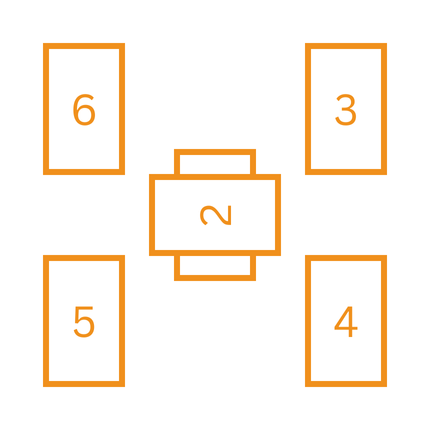
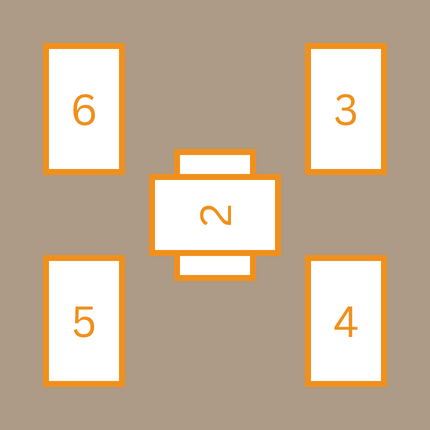
Add header, pagination, dark mode

diff --git a/index.js b/index.js
@@ -1,14 +1,15 @@
 //TO DO: add hover / click to reveal; fix spacing and design
 const factions = {
-  "idona":{"id":"idona","name":"Idona","short":"A one-card spread for a decision or a problem.","long":"This spread is used for providing simple answers to questions, such as yes or no, the appropriate action or person, the correct response, etc. The querent may find that sometimes the answer does not lie in the meaning of the card but in a person or action that it represents, or even a person who banners an image from the card or one similar. If the querent is unable to ascertain the correct answer from the card, it is considered to be a fault in the querent's understanding and not in the card.","spread":["1. Your answer."]},"asmus":{"id":"asmus","name":"Asmus","short":"A three-card reading on a single issue, revealing two possible paths.","long":"The classic Asmus spread is three cards laid out in the triangular shape of a moth.","spread":["1. What lies in the darkness?","2. How can it be freed?","3. How can it be bound?"]},"stel":{"id":"stel","name":"Stel","short":"A four-card spread that reveals what is coming.","long":"The Stel are nothing if not pragmatic about their divination.","spread":["1. Your current situation.","2. A past influence.","3. A future influence.","4. The doom that arrives."]},"nizari":{"id":"nizari","name":"Nizari","short":"A four-card spread which delves into the hidden layers of the question or situation.","long":"Sources disagree whether this spread originally had a fifth card that was meant to represent the truth of the situation. Wethran Ryo argues that a fifth card representing the truth is meant to be concealed by card 4, while Nizari Khedhan intimates that the inner position of the fourth card is meant to illustrate that there is no truth and suggests that one could extend the spread as far as one wishes, even to the end of the deck, and perhaps never find it. In latter days, Attra Feliora has observed that the structure built by piling lies on one another evinces a truth all its own.","spread":["1. The lie on the surface.","2. The lie it is covering.","3. The lie lurking beneath.","4. The lie at the heart of the matter."]},"veras":{"id":"veras","name":"Veras","short":"A six-card spread that explores different paths branching from the question.","long":"The literature is silent on whether each of the six paths represented by a card in the formal version of this spread is meant to correspond directly to a faction. Indirect evidence of that supposition is that a seventh card has occasionally, but rarely, been used since the Ralis were destroyed, and then only under dire circumstances and only by senior scryers, to minimize the risk of heresy. (And by Veras cadets around the campfire during orientation week, on dares.)","spread":["1. The just path.","2. The expedient path.","3. The traditional path.","4. The direct path.","5. The subtle path.","6. The hidden path.","[7. The heretical path.]"]},"attra":{"id":"attra","name":"Attra","short":"An eight-card spread offering counsel on an endeavor.","long":"On the surface, an Attra spread advises a querent on the creation of artistic works such as paintings, poetry, dance, perfume, architecture and so forth. However, each position contains multiple meanings that could apply to a different undertaking such as seduction, competition, business dealing, diplomatic negotiation, a con or assassination, to name a few examples. (Given the Attra penchant for aesthetics, they may also consider those to be artistic endeavors.) An Attra reader may also construct meanings of their own for one or more positions in a layout at any given time, citing inspiration or aesthetics.<br><br>Traditionally an Attra reading is an artwork in and of itself, and as such should stand on its own with no explanation from the artist. If a reader is interpreting for another, they do not request input from the querent, instead trusting that the applicability of the reading to the querent's concern will be self-evident.*<br><br>A noted feature of the spread is that it is not always apparent whether a particular card is referring to the artwork or to the artist. The Attra consider it a mark of virtuosity on the part of the reader to create an interpretation that incorporates both.<br><br>*The infamous general Nizari Cadao, a noted cynic, once observed that this also provided plausible deniability.","spread":["1. What is created. The work. Subject, topic, mark.","2. What is designed. Intention or objective. Plan.","3. What it draws upon. Inspiration, influences, ideation. Conversation with what has gone before. Roots. Buttresses. Motives, purpose.","4. What obstructs it. Critique, opposition. Weaknesses. Unseen influences and plots. What cannot be known.","5. What it requires. Needs. A driving impulse. Funding opportunities. Knowledge, education.","6. What it demands. What is surrendered, or what is taken.","7. What it results in. Goal. What is received.","8. Where it is. The work's place in the canon. The greater tapestry, or the individual threads. Creation. Revelation, revolution, resolution. Termination. Message for those yet to come."]},"ralis":{"id":"ralis","name":"Ralis","short":"A six-card spread examining one's self. Declared heretical. Use with extreme caution.","long":"Declared heretical. Use with extreme caution.<br><br>Sometimes called the mirrorweight spread after the exotic technology favored by the Ralis, this spread was declared heretical when the faction was destroyed. Even during the heptarchate, it was thought dangerous: while few are willing to scrutinize their deepest thoughts and motivations, the threat of potentially exposing such to one's enemies was considered too great a risk.<br><br>The center cards represent the face of the querent. The upper half concerns the conscious and the lower half reveals the subconscious while the corners of the spread mirror each other. Connecting lines mirror paper folds, and it is said that if an Idona requested a reading using this spread, they would fold the paper on which the cards had been laid into a shape inspired by the interpretation, and then burn it, although this assertion is unsubstantiated.","spread":["1. The wound. Your damage. What others seek to take advantage of.","2. The mask. The bandage that hides the wound from the world. What others see.","3. The mountain. Your strength. What prevents you falling.","4. The shape. Your conscious motivations; your known thoughts and emotions. What you want to achieve.","5. The shadow. Your unconscious motivations, people and events from your past that shaped you in ways you know not. What you don't understand that drives you or holds you back.","6. The avalanche. Your deepest flaws and weaknesses. Your fears. What causes you to crumble."]}
+  "idona":{"id":"idona","name":"Idona","short":"A one-card spread for a decision or a problem.","long":"This spread is used for providing simple answers to questions, such as yes or no, the appropriate action or person, the correct response, etc. The querent may find that sometimes the answer does not lie in the meaning of the card but in a person or action that it represents, or even a person who banners an image from the card or one similar. If the querent is unable to ascertain the correct answer from the card, it is considered to be a fault in the querent's understanding and not in the card.","spread":["<b>1. Your answer.</b>"],"alt":"A single card in the center of the spread."},"asmus":{"id":"asmus","name":"Asmus","short":"A three-card reading on a single issue, revealing two possible paths.","long":"The classic Asmus spread is three cards laid out in the triangular shape of a moth.","spread":["<b>1. What lies in the darkness?</b>","<b>2. How can it be freed?</b>","<b>3. How can it be bound?</b>"],"alt":"Three cards in a triangle, starting at the top and moving clockwise."},"stel":{"id":"stel","name":"Stel","short":"A four-card spread that reveals what is coming.","long":"The Stel are nothing if not pragmatic about their divination.","spread":["<b>1. Your current situation.</b>","<b>2. A past influence.</b>","<b>3. A future influence.</b>","<b>4. The doom that arrives.</b>"],"alt":"Four cards in a line from right to left."},"nizari":{"id":"nizari","name":"Nizari","short":"A four-card spread which delves into the hidden layers of the question or situation.","long":"Sources disagree whether this spread originally had a fifth card that was meant to represent the truth of the situation. Wethran Ryo argues that a fifth card representing the truth is meant to be concealed by card 4, while Nizari Khedhan intimates that the inner position of the fourth card is meant to illustrate that there is no truth and suggests that one could extend the spread as far as one wishes, even to the end of the deck, and perhaps never find it. In latter days, Attra Feliora has observed that the structure built by piling lies on one another evinces a truth all its own.","spread":["<b>1. The lie on the surface.</b>","<b>2. The lie it is covering.</b>","<b>3. The lie lurking beneath.</b>","<b>4. The lie at the heart of the matter.</b>"],"alt":"Four cards in a staggered stack, each placed beneath the previous."},"veras":{"id":"veras","name":"Veras","short":"A six-card spread that explores different paths branching from the question.","long":"The literature is silent on whether each of the six paths represented by a card in the formal version of this spread is meant to correspond directly to a faction. Indirect evidence of that supposition is that a seventh card has occasionally, but rarely, been used since the Ralis were destroyed, and then only under dire circumstances and only by senior scryers, to minimize the risk of heresy. (And by Veras cadets around the campfire during orientation week, on dares.)","spread":["<b>1. The just path.</b>","<b>2. The expedient path.</b>","<b>3. The traditional path.</b>","<b>4. The direct path.</b>","<b>5. The subtle path.</b>","<b>6. The hidden path.</b>","<b>7. The heretical path.</b>"],"alt":"Six cards in a circle, starting from the top right and moving clockwise. An optional seventh card in the center."},"attra":{"id":"attra","name":"Attra","short":"An eight-card spread offering counsel on an endeavor.","long":"On the surface, an Attra spread advises a querent on the creation of artistic works such as paintings, poetry, dance, perfume, architecture and so forth. However, each position contains multiple meanings that could apply to a different undertaking such as seduction, competition, business dealing, diplomatic negotiation, a con or assassination, to name a few examples. (Given the Attra penchant for aesthetics, they may also consider those to be artistic endeavors.) An Attra reader may also construct meanings of their own for one or more positions in a layout at any given time, citing inspiration or aesthetics.<br><br>Traditionally an Attra reading is an artwork in and of itself, and as such should stand on its own with no explanation from the artist. If a reader is interpreting for another, they do not request input from the querent, instead trusting that the applicability of the reading to the querent's concern will be self-evident.*<br><br>A noted feature of the spread is that it is not always apparent whether a particular card is referring to the artwork or to the artist. The Attra consider it a mark of virtuosity on the part of the reader to create an interpretation that incorporates both.<br><br>*The infamous general Nizari Cadao, a noted cynic, once observed that this also provided plausible deniability.","spread":["<b>1. What is created.</b> <em>The work. Subject, topic, mark.</em>","<b>2. What is designed.</b> <em>Intention or objective. Plan.</em>","<b>3. What it draws upon.</b> <em>Inspiration, influences, ideation. Conversation with what has gone before. Roots. Buttresses. Motives, purpose.</em>","<b>4. What obstructs it.</b> <em>Critique, opposition. Weaknesses. Unseen influences and plots. What cannot be known.</em>","<b>5. What it requires.</b> <em>Needs. A driving impulse. Funding opportunities. Knowledge, education.</em>","<b>6. What it demands.</b> <em>What is surrendered, or what is taken.</em>","<b>7. What it results in.</b> <em>Goal. What is received.</em>","<b>8. Where it is.</b> <em>The work's place in the canon. The greater tapestry, or the individual threads. Creation. Revelation, revolution, resolution. Termination. Message for those yet to come.<em>"],"alt":"Eight cards in two lines from right to left; the second overlaps the first."},"ralis":{"id":"ralis","name":"Ralis","short":"A six-card spread examining one's self. Declared heretical. Use with extreme caution.","long":"Declared heretical. Use with extreme caution.<br><br>Sometimes called the mirrorweight spread after the exotic technology favored by the Ralis, this spread was declared heretical when the faction was destroyed. Even during the heptarchate, it was thought dangerous: while few are willing to scrutinize their deepest thoughts and motivations, the threat of potentially exposing such to one's enemies was considered too great a risk.<br><br>The center cards represent the face of the querent. The upper half concerns the conscious and the lower half reveals the subconscious while the corners of the spread mirror each other. Connecting lines mirror paper folds, and it is said that if an Idona requested a reading using this spread, they would fold the paper on which the cards had been laid into a shape inspired by the interpretation, and then burn it, although this assertion is unsubstantiated.","spread":["<b>1. The wound.</b> <em>Your damage. What others seek to take advantage of.</em>","<b>2. The mask.</b> <em>The bandage that hides the wound from the world. What others see.</em>","<b>3. The mountain.</b> <em>Your strength. What prevents you falling.</em>","<b>4. The shape.</b> <em>Your conscious motivations; your known thoughts and emotions. What you want to achieve.</em>","<b>5. The shadow.</b> <em>Your unconscious motivations, people and events from your past that shaped you in ways you know not. What you don't understand that drives you or holds you back.</em>","<b>6. The avalanche.</b> <em>Your deepest flaws and weaknesses. Your fears. What causes you to crumble.</em>"],"alt":"Six cards in a square. The first is in the center, the second laid perpendicularly on top of it, and the rest at the four corners starting from the top right and moving clockwise."}
 }; //factions = {"idona":{id, name, short, long, [spread]}}
 const deck = [
   {"suit":"arcana","card":"The Novice","meaning":"New beginnings. Innocence.","reversed":"Ignorance. Walking into disaster."},{"suit":"arcana","card":"The Poet","meaning":"Praise. Finding the right words. The arts.","reversed":"Lamentations. At a loss for words."},{"suit":"arcana","card":"The Inquisitor","meaning":"Adherence to law. Upright morals.","reversed":"Weak-willed. Criminal temptations."},{"suit":"arcana","card":"The Hexarch","meaning":"Power. Mastery of those around you.","reversed":"Falling short of your goals."},{"suit":"arcana","card":"The Pyre","meaning":"Destruction. Bad luck.","reversed":"Self-sacrifice. Loyalty."},{"suit":"arcana","card":"The Mathematician","meaning":"The fundamental order of the universe. Power over the natural world.","reversed":"Disorder. Natural disaster."},{"suit":"arcana","card":"The Courtesan","meaning":"Luxury and wealth. Romance. Pleasurable conversation.","reversed":"Lack of social connection. Poverty. Loneliness."},{"suit":"arcana","card":"The Drowned General:","meaning":"Disaster. Failure through hubris.","reversed":"Ambition. A high-risk, high-gain gamble."},{"suit":"arcana","card":"The Soldier","meaning":"Conquest. Success through physical strength.","reversed":"Weakness. Ill health."},{"suit":"arcana","card":"The Scholar","meaning":"Meditation. Pursuit of knowledge.","reversed":"Frivolity."},{"suit":"arcana","card":"The Spinning Coin","meaning":"Chance. Good luck.","reversed":"Rigidity. Instability."},{"suit":"arcana","card":"The Magistrate","meaning":"Austerity. Determining the fate of others.","reversed":"Self-indulgence. Lack of influence."},{"suit":"arcana","card":"The Dragon-Horse","meaning":"Travel to faraway place. Rapid movement.","reversed":"Stagnation. Besieged."},{"suit":"arcana","card":"Death","meaning":"Transformation. The cycle of existence.","reversed":"Decay. Festering."},{"suit":"arcana","card":"The Heretic","meaning":"Ruination. Heterodoxy.","reversed":"Precarious situation. Proceed with caution."},{"suit":"arcana","card":"The Empty Hand","meaning":"Potential for advancement. New possibilities opening up.","reversed":"Trapped in your current position. Misunderstandings."},{"suit":"arcana","card":"The Feast","meaning":"Success in material matters. An upcoming honor.","reversed":"Lack of recognition for your work. Struggling to make ends meet."},{"suit":"arcana","card":"The Star","meaning":"Clarity. Hope.","reversed":"Despair. Calamity. Confusion."},{"suit":"arcana","card":"The Moon","meaning":"Illusion. Self-deception. Wishful thinking.","reversed":"Comfort. Self-knowledge."},{"suit":"arcana","card":"The Fortress","meaning":"Protection. Strength in numbers.","reversed":"Isolation. Vulnerability."},{"suit":"arcana","card":"Judgment","meaning":"Remembrance.","reversed":"Crisis."},{"suit":"arcana","card":"The Wheel of Worlds","meaning":"Completion. Harmony with your surroundings.","reversed":"Emptiness. Disconnect. Lack of rapport."},{"suit":"gears","card":"Ace of Gears","meaning":"Change in the natural world.","reversed":"Stagnation in the natural world. Lack of opportunity."},{"suit":"gears","card":"Deuce of Gears","meaning":"A cog in the machine. Pawn of powers beyond your control.","reversed":"Devious plans. Breaking past the boundaries of what is thought possible."},{"suit":"gears","card":"Three of Gears","meaning":"Celebration of the world's riches.","reversed":"Poverty. Turned away from something you want."},{"suit":"gears","card":"Four of Gears","meaning":"An opportunity has passed you by. Instability in the natural world.","reversed":"The chance to build something concrete."},{"suit":"gears","card":"Five of Gears","meaning":"An opportunity at the cost of struggle. Colliding ambitions.","reversed":"Conflict with peers."},{"suit":"gears","card":"Six of Gears","meaning":"Material gains. Wealth.","reversed":"Bad investments. Poor planning."},{"suit":"gears","card":"Seven of Gears","meaning":"In danger of losing your wealth.","reversed":"Risky investments."},{"suit":"gears","card":"Eight of Gears","meaning":"Obstacles to advancement. Hard work ahead.","reversed":"Small reward for a lot of work."},{"suit":"gears","card":"Nine of Gears","meaning":"Recovery from hard work.","reversed":"Working at a disadvantage."},{"suit":"gears","card":"Ten of Gears","meaning":"Too many burdens. Being taken advantage of by others.","reversed":"Unexpected breakthrough."},{"suit":"gears","card":"Page of Gears","meaning":"Prosperity if you seize the opportunity. A reliable friend.","reversed":"Lost chance. Unreliable partner."},{"suit":"gears","card":"Knight of Gears","meaning":"You must keep your world in balance to hold onto your gains. An engineer.","reversed":"Plans thrown askew by an unexpected event."},{"suit":"gears","card":"Master of Gears","meaning":"Material wealth. Seeking balance. A student of the natural world.","reversed":"Wealth slipping away. The envy of others."},{"suit":"gears","card":"Book of Gears","meaning":"Victory through precision. Calculated perfection.","reversed":"Chaos. Lack of harmony. Poorly thought-out plans."},{"suit":"doors","card":"Ace of Doors","meaning":"A sudden change of position or action.","reversed":"Refusal to consider the options."},{"suit":"doors","card":"Deuce of Doors","meaning":"At a crossroads. Two opposing possibilities.","reversed":"Indecision. Stagnation. Trapped."},{"suit":"doors","card":"Three of Doors","meaning":"An opportunity to be remembered for your actions.","reversed":"Ignominy. Being disregarded."},{"suit":"doors","card":"Four of Doors","meaning":"A path beyond which there is no returning. Being backed into a corner.","reversed":"Separation from your allies."},{"suit":"doors","card":"Five of Doors","meaning":"Retreat. Fleeing the field of battle.","reversed":"Finding shelter. Temporary respite."},{"suit":"doors","card":"Six of Doors","meaning":"Many fruitful opportunities.","reversed":"Overwhelmed by possibilities."},{"suit":"doors","card":"Seven of Doors","meaning":"Labyrinth. Betrayal. Confusion.","reversed":"Finding out more than you wanted to know."},{"suit":"doors","card":"Eight of Doors","meaning":"Victim. Many doors but no way out.","reversed":"The compassion of a stranger. An unexpected rescue."},{"suit":"doors","card":"Nine of Doors","meaning":"Unwanted responsibility. You regret the path you took to get here.","reversed":"Evading responsibility."},{"suit":"doors","card":"Ten of Doors","meaning":"From every door a death, from every mouth a maw. Utter defeat.","reversed":"A narrow escape."},{"suit":"doors","card":"Page of Doors","meaning":"Exploration. An inquisitive friend.","reversed":"Getting lost. A wrong turn taken."},{"suit":"doors","card":"Knight of Doors","meaning":"Charging ahead. A decisive person.","reversed":"Wrong course of action. Impulsivity."},{"suit":"doors","card":"Master of Doors","meaning":"Avoidance of outright battle. A person who understands the entire situation.","reversed":"Fatalism. Surrender."},{"suit":"doors","card":"Book of Doors","meaning":"Victory by understanding different paths to success. A map of the situation is at hand.","reversed":"Fundamental misunderstanding of the situation. Obfuscation."},{"suit":"roses","card":"Ace of Roses","meaning":"A sudden change of heart.","reversed":"Apathy."},{"suit":"roses","card":"Deuce of Roses","meaning":"Celebration. Happy memories.","reversed":"Disappointment. Avoidance of the past."},{"suit":"roses","card":"Three of Roses","meaning":"Lovers or companions. Pleasure.","reversed":"Divorce. Lack of rapport."},{"suit":"roses","card":"Four of Roses","meaning":"Depression. Lack of fulfillment.","reversed":"Daydreaming. Lost in your hopes."},{"suit":"roses","card":"Five of Roses","meaning":"Temporary gloom.","reversed":"Unstable mood."},{"suit":"roses","card":"Six of Roses","meaning":"Joy. Fulfillment.","reversed":"Unhappiness. Lack of friends."},{"suit":"roses","card":"Seven of Roses","meaning":"Temptation. Risk without reward.","reversed":"Caution. Second-guessing yourself."},{"suit":"roses","card":"Eight of Roses","meaning":"Bitter lessons.","reversed":"Failure to learn better."},{"suit":"roses","card":"Nine of Roses","meaning":"Self-indulgence. Complacency.","reversed":"Lack of self-control."},{"suit":"roses","card":"Ten of Roses","meaning":"Community. Accomplishment.","reversed":"Failure. Brooding."},{"suit":"roses","card":"Page of Roses","meaning":"Amusement. A friend who listens well.","reversed":"Irony. Sarcasm. Someone who ignores you."},{"suit":"roses","card":"Knight of Roses","meaning":"Pride. An artisan.","reversed":"Pride goes before a fall."},{"suit":"roses","card":"Master of Roses","meaning":"Emotional self-control. A calm person.","reversed":"A manipulator."},{"suit":"roses","card":"Book of Roses","meaning":"An artistic performance. Good aesthetic judgment. Emotional responsiveness.","reversed":"Tawdriness. Rigidity."},{"suit":"eyes","card":"Ace of Eyes","meaning":"A sudden change of opinion.","reversed":"Stubbornness. Clinging to an outdated plan."},{"suit":"eyes","card":"Deuce of Eyes","meaning":"Paradox. Confusion.","reversed":"Insight. Wisdom."},{"suit":"eyes","card":"Three of Eyes","meaning":"Illusion. You wonder about a difficult situation.","reversed":"Harsh reality. No way out."},{"suit":"eyes","card":"Four of Eyes","meaning":"Destructive obsession. Paralysis.","reversed":"Focus. Intense concentration produces insight."},{"suit":"eyes","card":"Five of Eyes","meaning":"Meditation. Generation of ideas.","reversed":"Disorganized ideas. Distraction."},{"suit":"eyes","card":"Six of Eyes","meaning":"Generosity. Collaboration.","reversed":"Selfishness. Squandered opportunity."},{"suit":"eyes","card":"Seven of Eyes","meaning":"Stuck in destructive patterns of thought. Lack of wisdom.","reversed":"Constructive thinking. A plan comes clear."},{"suit":"eyes","card":"Eight of Eyes","meaning":"The importance of being well-prepared.","reversed":"Trying to prepare for the wrong things."},{"suit":"eyes","card":"Nine of Eyes","meaning":"Prevailing through cunning. The wisdom that comes with age.","reversed":"Too clever for your own good. Counterproductive scheming."},{"suit":"eyes","card":"Ten of Eyes","meaning":"Knowledge. Inspiration.","reversed":"Copying others' ideas. Lack of originality."},{"suit":"eyes","card":"Page of Eyes","meaning":"Optimism. Keeping your eyes open. A knowledgeable friend.","reversed":"Pessimism. Too much information or misinformation."},{"suit":"eyes","card":"Knight of Eyes","meaning":"Working toward a goal. A strategist.","reversed":"Your plans collapse under their own weight."},{"suit":"eyes","card":"Master of Eyes","meaning":"Self-understanding. An expert in their field.","reversed":"Self-deception."},{"suit":"eyes","card":"Book of Eyes","meaning":"Supreme insight. Overcoming obstacles through knowledge.","reversed":"Blindness. Lack of understanding. Obscurity."}
 
 ] //deck = [{suit, card, meaning, reversed}]
 
+//remove one card from the deck and return it
 const drawCard = function() {
-  return deck[ Math.floor(Math.random() * deck.length) ];
+  return deck.splice(Math.floor(Math.random() * deck.length),1)[0];
 };
 
 for (let faction in factions) {
@@ -24,7 +25,8 @@ for (let faction in factions) {
 $("#factionSelector").append($("#factionSubmit")); //move to end
 
 $("#factionSubmit").on("click", function(){
-  generateReading( $("input[name='faction']:checked").val() );
+  window.location.href = "/spread?faction="+$("input[name='faction']:checked").val();
+//  generateReading( $("input[name='faction']:checked").val() );
 }); 
 
 const generateReading = function(currentFaction) {

diff --git a/spread/reading.js b/spread/reading.js
@@ -1,10 +1,10 @@
 //factions = {"idona":{id, name, short, long, [spread]}}
 //deck = [{suit, card, meaning, reversed}]; drawCard() returns obj
 const positions = {
-  "idona":[{"x":"180","y":"155"}],"asmus":[{"x":"180","y":"49"},{"x":"272","y":"221"},{"x":"88","y":"221"}],"stel":[{"x":"332","y":"155"},{"x":"230","y":"155"},{"x":"128","y":"155"},{"x":"26","y":"155"}],"nizari":[{"x":"156","y":"69"},{"x":"218","y":"155"},{"x":"176","y":"241"},{"x":"114","y":"155"}],"veras":[{"x":"262","y":"16"},{"x":"344","y":"155"},{"x":"262","y":"294"},{"x":"98","y":"294"},{"x":"16","y":"155"},{"x":"98","y":"16"},{"x":"180","y":"155"}],"attra":[{"x":"344","y":"109"},{"x":"324","y":"201"},{"x":"231","y":"59"},{"x":"231","y":"251"},{"x":"129","y":"59"},{"x":"129","y":"251"},{"x":"26","y":"59"},{"x":"26","y":"251"}],"ralis":[{"x":"180","y":"155"},{"x":"155","y":"262"},{"x":"311","y":"49"},{"x":"311","y":"261"},{"x":"49","y":"261"},{"x":"49","y":"49"}]
+  "idona":[{"x":"180","y":"155"}],"asmus":[{"x":"180","y":"49"},{"x":"272","y":"221"},{"x":"88","y":"221"}],"stel":[{"x":"332","y":"155"},{"x":"230","y":"155"},{"x":"128","y":"155"},{"x":"26","y":"155"}],"nizari":[{"x":"156","y":"69"},{"x":"218","y":"155"},{"x":"176","y":"241"},{"x":"114","y":"155"}],"veras":[{"x":"262","y":"16"},{"x":"344","y":"155"},{"x":"262","y":"294"},{"x":"98","y":"294"},{"x":"16","y":"155"},{"x":"98","y":"16"},{"x":"180","y":"155"}],"attra":[{"x":"344","y":"109"},{"x":"324","y":"201"},{"x":"231","y":"59"},{"x":"231","y":"251"},{"x":"129","y":"59"},{"x":"129","y":"251"},{"x":"26","y":"59"},{"x":"26","y":"251"}],"ralis":[{"x":"180","y":"155"},{"x":"155","y":"170", "rotate":270},{"x":"311","y":"49"},{"x":"311","y":"261"},{"x":"49","y":"261"},{"x":"49","y":"49"}]
 } //{ "asmus": [ {x,y}, {x,y}, {x,y} ] }
 
-let spread = "asmus"; //TODO: URL encode
+let spread = window.location.search.substring(1); //URL encode after ?faction=
 let cardsDrawn = 0;
 
 const drawIntoSpread = function () {
@@ -14,7 +14,10 @@ const drawIntoSpread = function () {
     if( Math.random() > 0.5 ) draw.flip = true;
     console.log(draw.card + ((draw.flip) ? " (REVERSED)" : ""));
     let offset = positions[spread][i];
-    $("#spread").append(`<img id="draw${(i+1)}" class="unflipped" src="./images/cards/${draw.suit}.png" style="position: absolute; left: ${offset.x}px; top: ${offset.y}px${ (draw.flip) ? "; rotate: 180deg" : "" }">`);
+    let rotation = 0;
+    if( draw.flip ) rotation = 180;
+    if( offset.rotate ) rotation += offset.rotate;
+    $("#spread").append(`<img id="draw${(i+1)}" class="unflipped" src="./images/cards/${draw.suit}.png" style="position: absolute; left: ${offset.x}px; top: ${offset.y}px${ (rotation) ? "; rotate: "+rotation+"deg" : "" }">`);
     $("#reading").append(`<li id="question${(i+1)}">${factions[spread]["spread"][i]}
     <ul><li id="meaning${(i+1)}" class="unflipped"><b>${draw.card} ${(draw.flip) ? "(REVERSED)" : ""}</b><br>${(draw.flip) ? draw.reversed : draw.meaning}</li></ul></li><br>`);
   }
@@ -35,7 +38,11 @@ const hoverCard = function (drawEvent) {
   $("#question"+drawEvent.target.id.substring(4,5)).toggleClass("currentCard");
 }
 
+$("li a.nav-link").removeClass("active").removeAttr("aria-current");
+$("li#nav-"+spread+" a.nav-link").addClass("active").attr("aria-current", "page");
+
 $("#faction").prepend(factions[spread]["name"]+" ");
+$("#spreadImage").attr({src:"./images/"+spread+".png", alt:"idona spread layout"});
 
 drawIntoSpread();
 $("#drawButton").on("click", placeCard)

diff --git a/main.css b/main.css
@@ -1,6 +1,39 @@
+:root {
+  --attra-primary: #1B1464;
+  --attra-secondary: #A1A1A1;
+
+  --asmus-primary: #9E0B0F;
+  --asmus-secondary: #F7941D;
+
+  --stel-primary: #F7941D;
+  --stel-secondary: #000000;
+
+  --nizari-primary: #A1A1A1;
+  --nizari-secondary: #000000;
+
+  --idona-primary: #6AAE97;
+  --idona-secondary: #673B3A;
+
+  --veras-primary: #673B3A;
+  --veras-secondary: #A1A1A1;
+
+  --ralis-primary: #FFFFFF;
+  --ralis-secondary: #F7941D;
+}
+/* The rest of the CSS file 
+#foo h1 {
+  color: var(--main-color);
+}
+  */
+
 body {
   background-color: lightblue;
   font-size: large;
+}
+
+header {
+  background-image: linear-gradient(var(--idona-secondary),var(--asmus-secondary), var(--nizari-primary));
+  color: white;
 }
 
 .long-description {
@@ -13,20 +46,57 @@ body {
   background-color:white;
 }
 .gears {
-  background-color: lightgrey;
+  background-color: var(--asmus-primary);
 }
 .doors {
-  background-color: burlywood;
+  background-color: var(--stel-secondary);
 }
 .roses {
-  background-color: lightcoral;
+  background-color: var(--attra-primary);
 }
 .eyes {
-  background-color: lightskyblue;
+  background-color: var(--nizari-secondary);
 }
 
+#nav-idona a {
+  color: black;
+  font-weight: bold;
+  background-image: linear-gradient(to bottom, var(--idona-secondary),var(--idona-primary), var(--idona-secondary));
+}
+#nav-asmus a {
+  color: black;
+  font-weight: bold;
+  background-image: linear-gradient(to bottom, var(--asmus-primary),var(--asmus-secondary), var(--asmus-secondary), var(--asmus-primary));
+}
+#nav-stel a {
+  color: black;
+  font-weight: bold;
+  background-image: linear-gradient(to bottom, var(--stel-secondary),var(--stel-primary), var(--stel-primary), var(--stel-secondary));
+}
+#nav-nizari a {
+  color: black;
+  font-weight:bold;
+  background-image: linear-gradient(to bottom, var(--nizari-secondary),var(--nizari-primary), var(--nizari-primary), var(--nizari-secondary));
+}
+#nav-veras a {
+  color: black;
+  font-weight: bold;
+  background-image: linear-gradient(to bottom, var(--veras-primary),var(--veras-secondary), var(--veras-secondary), var(--veras-primary));
+}
+#nav-attra a {
+  color: black;
+  font-weight: bold;
+  background-image: linear-gradient(to bottom, var(--attra-primary),var(--attra-secondary), var(--attra-secondary), var(--attra-primary));
+}
+#nav-ralis a {
+  color: black;
+  font-weight: bold;
+  background-image: linear-gradient(to bottom, var(--ralis-secondary),var(--ralis-primary), var(--ralis-primary), var(--ralis-secondary));
+}
+
+
 .currentCard {
-  background-color: lightgrey;
+  background-color: white;
 }
 
 li.unflipped {

diff --git a/spread/index.html b/spread/index.html
@@ -8,6 +8,23 @@
   <link rel="stylesheet" href="../main.css">
 </head>
 <body>
+  <header class="d-flex flex-wrap justify-content-center py-3 mb-4 border-bottom">
+    <a href="/" class="d-flex align-items-center mb-3 mb-md-0 me-md-auto link-body-emphasis text-decoration-none col">
+      <img src="./images/wheel.png" height="40" class="bi mx-2">
+    </a>
+
+    <ul class="nav nav-pills">
+      <li id="nav-idona" class="nav-item"><a href="/spread?idona" class="nav-link active" aria-current="page">Idona</a></li>
+      <li id="nav-asmus" class="nav-item"><a href="/spread?asmus" class="nav-link">Asmus</a></li>
+      <li id="nav-stel" class="nav-item"><a href="/spread?stel" class="nav-link">Stel</a></li>
+      <li id="nav-nizari" class="nav-item"><a href="/spread?nizari" class="nav-link">Nizari</a></li>
+      <li id="nav-veras" class="nav-item"><a href="/spread?veras" class="nav-link">Veras</a></li>
+      <li id="nav-attra" class="nav-item"><a href="/spread?attra" class="nav-link">Attra</a></li>
+      <li id="nav-ralis" class="nav-item"><a href="/spread?ralis" class="nav-link">Ralis</a></li>
+    </ul>
+  </header>
+  <p></p>
+
   <div class="container">
     <div class="row">
       <div class="col border" style="min-width: 455px">
